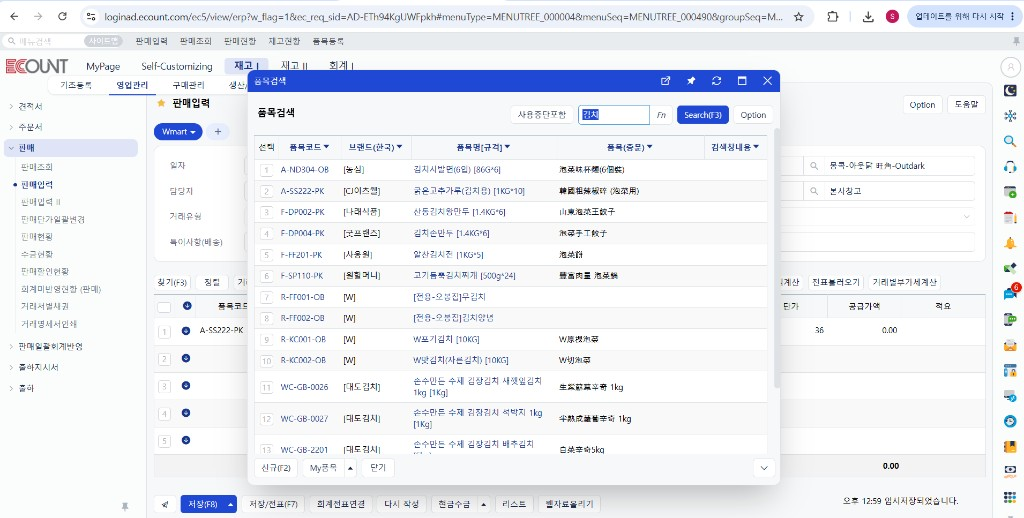
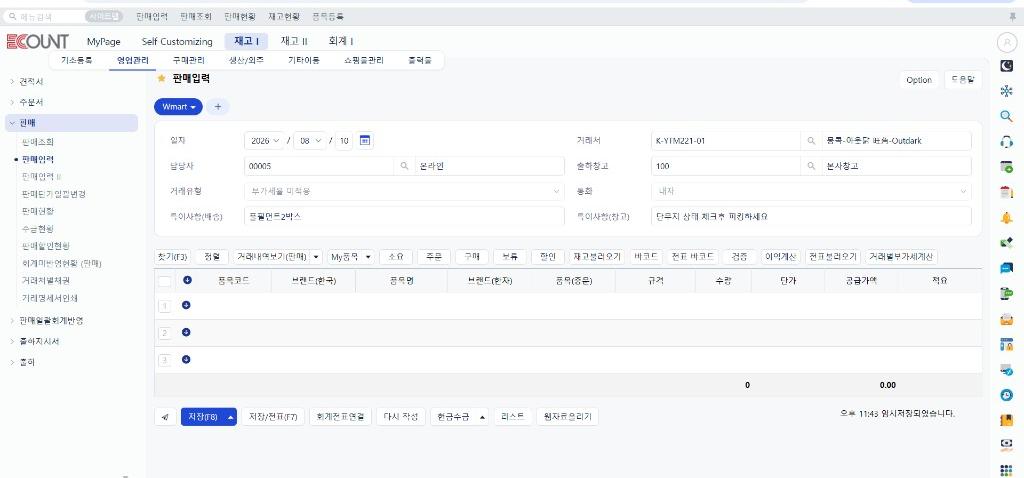
Refresh ECOUNT screenshots and drop rack item lookup.
Crop browser/taskbar from HQ captures, wire images in order, and remove interactive rack item search from the warehouse map.

diff --git a/src/components/MapChapter.tsx b/src/components/MapChapter.tsx
@@ -1,105 +1,14 @@
 /**
  * 창고 도면 — 전체도면 이미지 + 렉 사진 중심.
- * 인터랙티브 렉 선택은 보조로 아래에 유지.
  */
-import { useMemo, useState } from "react";
-import type { Item, LocationData } from "../types";
+import type { LocationData } from "../types";
 
 type Props = {
   data: LocationData;
   initialRack?: string | null;
 };
 
-function RackBtn({
-  rack,
-  zone,
-  count,
-  selected,
-  onClick,
-}: {
-  rack: string;
-  zone: "a" | "b" | "r";
-  count: number;
-  selected: boolean;
-  onClick: () => void;
-}) {
-  return (
-    <button
-      type="button"
-      className={`rack ${zone} ${selected ? "selected" : ""}`}
-      onClick={onClick}
-    >
-      <span className="id">{rack}</span>
-      <span className="cnt">{count}품목</span>
-    </button>
-  );
-}
-
-function Pair({
-  bottom,
-  top,
-  zone,
-  byRack,
-  selected,
-  onSelect,
-}: {
-  bottom: string;
-  top: string;
-  zone: "a" | "b";
-  byRack: Record<string, Item[]>;
-  selected: string | null;
-  onSelect: (r: string) => void;
-}) {
-  return (
-    <div className="pair">
-      <RackBtn
-        rack={top}
-        zone={zone}
-        count={(byRack[top] || []).length}
-        selected={selected === top}
-        onClick={() => onSelect(top)}
-      />
-      <RackBtn
-        rack={bottom}
-        zone={zone}
-        count={(byRack[bottom] || []).length}
-        selected={selected === bottom}
-        onClick={() => onSelect(bottom)}
-      />
-    </div>
-  );
-}
-
-export function MapChapter({ data, initialRack = null }: Props) {
-  const byRack = data.byRack;
-  const [selected, setSelected] = useState<string | null>(initialRack);
-  const [slot, setSlot] = useState<string | null>(null);
-
-  const items = useMemo(() => {
-    if (!selected) return [];
-    const all = byRack[selected] || [];
-    if (!slot) return all;
-    return all.filter((x) => x.location === slot);
-  }, [byRack, selected, slot]);
-
-  const locs = useMemo(() => {
-    if (!selected) return [];
-    return [...new Set((byRack[selected] || []).map((x) => x.location))].sort(
-      (a, b) => a.localeCompare(b, "ko", { numeric: true }),
-    );
-  }, [byRack, selected]);
-
-  const select = (rack: string) => {
-    setSelected(rack);
-    setSlot(null);
-  };
-
-  const pad = (key: string) => (
-    <div key={key} className="rack empty" aria-hidden>
-      {" "}
-    </div>
-  );
-
+export function MapChapter({ data: _data }: Props) {
   return (
     <div className="map-chapter">
       <section className="map-visual">
@@ -139,193 +48,6 @@ export function MapChapter({ data, initialRack = null }: Props) {
           </li>
         </ul>
       </section>
-
-      <details className="map-interactive">
-        <summary>렉별 품목 찾아보기 (선택)</summary>
-        <div className="map-layout">
-          <div>
-            <div className="legend">
-              <span>
-                <i className="lg-a" />A
-              </span>
-              <span>
-                <i className="lg-b" />B (반 칸 위)
-              </span>
-              <span>
-                <i className="lg-r" />R
-              </span>
-            </div>
-
-            <div className="zone-top">
-              <div className="col">
-                <div className="cold-duo">
-                  <RackBtn
-                    rack="R"
-                    zone="r"
-                    count={(byRack.R || []).length}
-                    selected={selected === "R"}
-                    onClick={() => select("R")}
-                  />
-                  <div className="rack cold-unused">
-                    <span className="id">냉장</span>
-                    <span className="cnt">미사용</span>
-                  </div>
-                </div>
-                <RackBtn
-                  rack="A8"
-                  zone="a"
-                  count={(byRack.A8 || []).length}
-                  selected={selected === "A8"}
-                  onClick={() => select("A8")}
-                />
-                <div className="wall-block">벽</div>
-              </div>
-              <div />
-              <div className="col">
-                {pad("p1")}
-                {pad("p2")}
-                <RackBtn
-                  rack="B7"
-                  zone="b"
-                  count={(byRack.B7 || []).length}
-                  selected={selected === "B7"}
-                  onClick={() => select("B7")}
-                />
-              </div>
-            </div>
-
-            <div className="yard">
-              <div className="col">
-                <RackBtn
-                  rack="A7"
-                  zone="a"
-                  count={(byRack.A7 || []).length}
-                  selected={selected === "A7"}
-                  onClick={() => select("A7")}
-                />
-                <Pair
-                  bottom="A5"
-                  top="A6"
-                  zone="a"
-                  byRack={byRack}
-                  selected={selected}
-                  onSelect={select}
-                />
-                <Pair
-                  bottom="A3"
-                  top="A4"
-                  zone="a"
-                  byRack={byRack}
-                  selected={selected}
-                  onSelect={select}
-                />
-                <Pair
-                  bottom="A1"
-                  top="A2"
-                  zone="a"
-                  byRack={byRack}
-                  selected={selected}
-                  onSelect={select}
-                />
-              </div>
-              <div className="aisle" aria-label="중앙통로">
-                <span>중앙통로</span>
-              </div>
-              <div className="col">
-                <Pair
-                  bottom="B5"
-                  top="B6"
-                  zone="b"
-                  byRack={byRack}
-                  selected={selected}
-                  onSelect={select}
-                />
-                <Pair
-                  bottom="B3"
-                  top="B4"
-                  zone="b"
-                  byRack={byRack}
-                  selected={selected}
-                  onSelect={select}
-                />
-                <Pair
-                  bottom="B1"
-                  top="B2"
-                  zone="b"
-                  byRack={byRack}
-                  selected={selected}
-                  onSelect={select}
-                />
-                <div className="rack empty half" aria-hidden />
-              </div>
-            </div>
-            <div className="packing-zone">패킹하는 곳</div>
-          </div>
-
-          <div className="detail-panel">
-            <div className="detail-head">
-              <h3>{selected || "—"}</h3>
-              <span className="item-sub">
-                {selected ? `${items.length}개 품목` : "렉을 선택하세요"}
-              </span>
-            </div>
-            <div className="detail-body">
-              {!selected ? (
-                <p className="empty">렉을 누르면 품목이 나옵니다.</p>
-              ) : (
-                <>
-                  <div className="slots">
-                    <button
-                      type="button"
-                      className={`slot ${!slot ? "on" : ""}`}
-                      onClick={() => setSlot(null)}
-                    >
-                      전체
-                    </button>
-                    {locs.map((loc) => (
-                      <button
-                        key={loc}
-                        type="button"
-                        className={`slot ${slot === loc ? "on" : ""}`}
-                        onClick={() => setSlot(loc)}
-                      >
-                        {loc}
-                      </button>
-                    ))}
-                  </div>
-                  <table className="items">
-                    <thead>
-                      <tr>
-                        <th>위치</th>
-                        <th>품목</th>
-                        <th>코드</th>
-                      </tr>
-                    </thead>
-                    <tbody>
-                      {[...items]
-                        .sort(
-                          (a, b) =>
-                            a.location.localeCompare(b.location, "ko", {
-                              numeric: true,
-                            }) || a.name.localeCompare(b.name, "ko"),
-                        )
-                        .map((it) => (
-                          <tr key={`${it.code}-${it.location}`}>
-                            <td className="mono">{it.location}</td>
-                            <td>
-                              <div className="item-name">{it.name}</div>
-                            </td>
-                            <td className="mono">{it.code}</td>
-                          </tr>
-                        ))}
-                    </tbody>
-                  </table>
-                </>
-              )}
-            </div>
-          </div>
-        </div>
-      </details>
     </div>
   );
 }

diff --git a/src/components/EcountChapter.tsx b/src/components/EcountChapter.tsx
@@ -84,8 +84,8 @@ export const ECOUNT_PAGES: {
             text: "창고 피킹하는 사람만 · 예: 단무지상태 체크후 피킹하세요",
           },
         ],
-        img: "/ecount/06-item-filled.png",
-        imgCap: "배송·창고 특이사항이 채워진 예시",
+        img: "/ecount/05-item-search.png",
+        imgCap: "특이사항(배송·창고) 입력 예시",
       },
       {
         no: "06",
@@ -96,8 +96,8 @@ export const ECOUNT_PAGES: {
           "선택되면 품목·단가가 들어가고, **수량만** 적으면 됩니다.",
         ],
         tip: "정확한 품목명을 전부 외울 필요 없습니다. 키워드로 찾고 클릭하세요.",
-        img: "/ecount/05-item-search.png",
-        imgCap: "품목검색 — 「김치」로 찾기",
+        img: "/ecount/06-item-filled.png",
+        imgCap: "품목 선택 후 수량만 입력",
       },
     ],
   },
